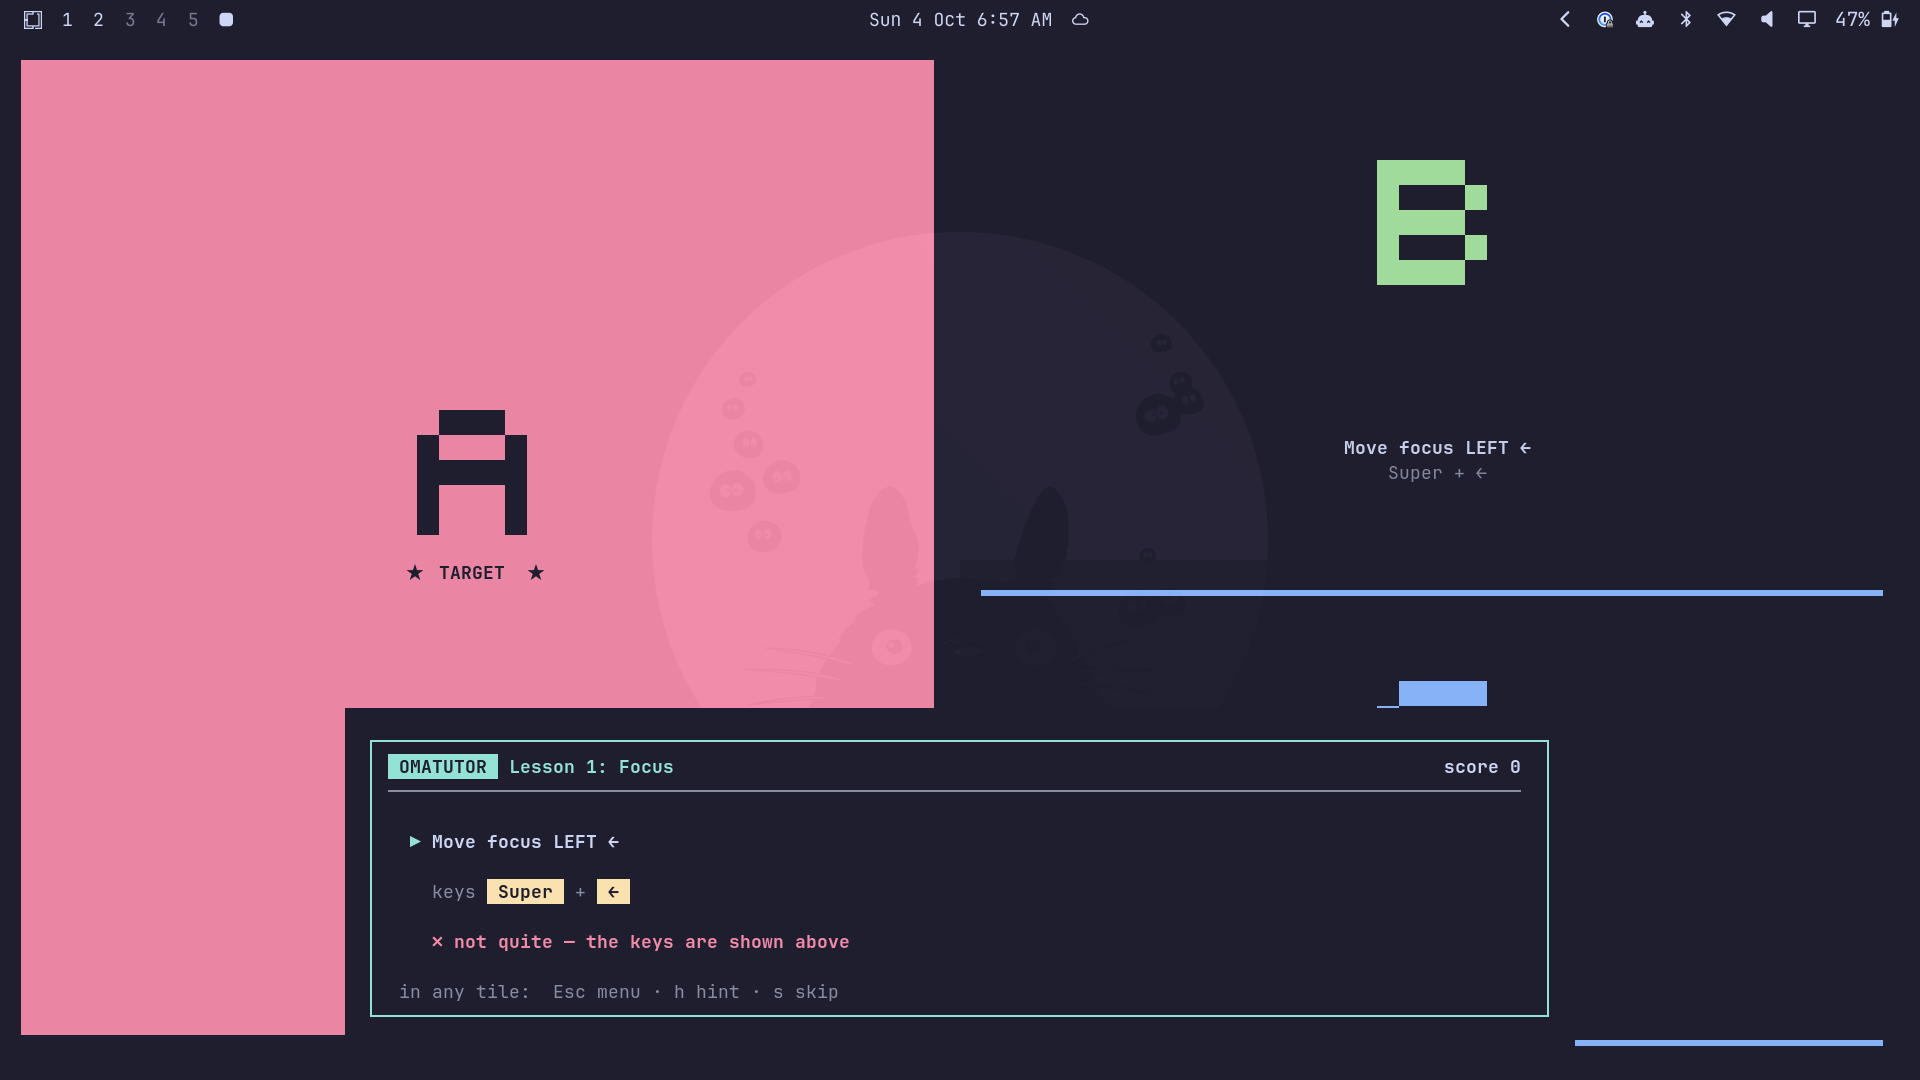
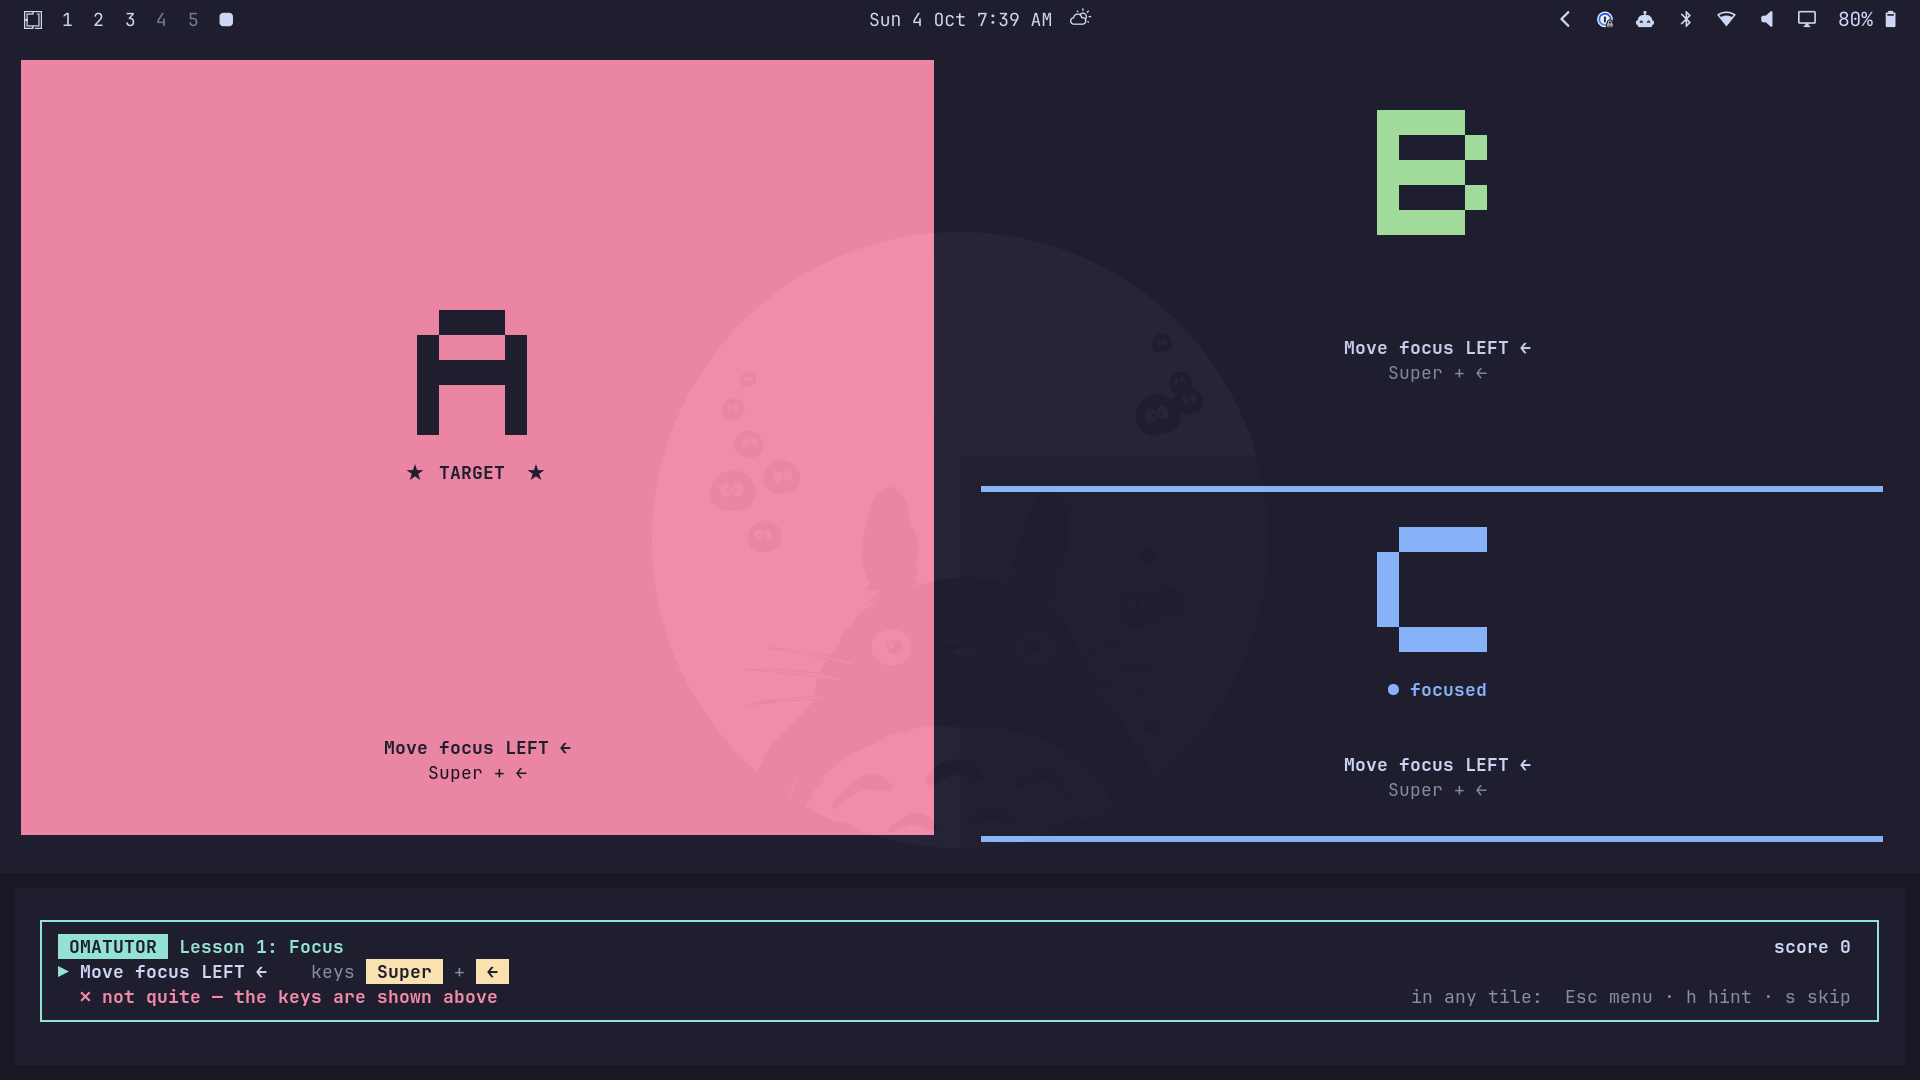
Move the play panel below the tiles as a short full-width strip
The floating panel used to cover part of the practice tiles. It is now a
five-row strip along the bottom of the screen, and the practice workspace
gets a bottom outer gap for the strip's height while playing, so the tiles
tile above it. The strip's height is computed from the terminal's own pixel
report (TIOCGWINSZ) so it is exactly as tall as its three lines need, with a
nudge loop as fallback for terminals that don't report pixels. The play
screen is condensed to title, prompt + keys, and status. Every panel screen
also draws its own accent-coloured frame so it stands out on light themes.

diff --git a/README.md b/README.md
@@ -2,9 +2,9 @@
 
 A vimtutor-style game for building muscle memory with Omarchy's keybindings.
 
-It runs inside your real Hyprland session, not a simulation. A small pinned panel gives you an instruction ("Move focus LEFT ←"), you press the real keys, and Omatutor watches Hyprland's state over its IPC socket to see whether you did it. The practice windows are big lettered tiles (A, B, C) on a spare workspace. The tile you need lights up.
+It runs inside your real Hyprland session, not a simulation. A thin panel along the bottom of the screen gives you an instruction ("Move focus LEFT ←"), you press the real keys, and Omatutor watches Hyprland's state over its IPC socket to see whether you did it. The practice windows are big lettered tiles (A, B, C) on a spare workspace. The tile you need lights up.
 
-![Lesson 1 asks you to move focus left; tile A is lit as the target and the panel shows the keys](screenshots/play-hinted.png)
+![Lesson 1 asks you to move focus left; tile A is lit as the target and the panel below the tiles shows the keys](screenshots/play-hinted.png)
 
 ## Install and run
 
